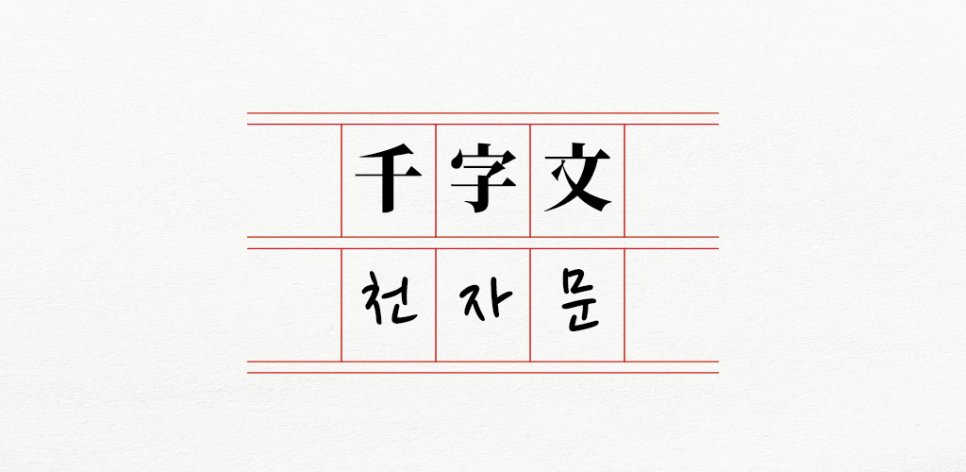
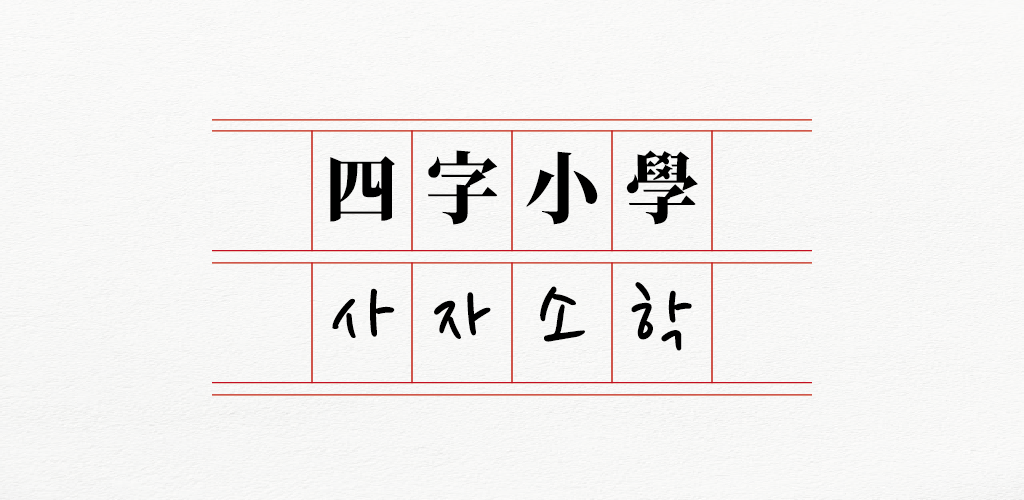
사자소학 웹사이트
전반적인 수정.

diff --git a/index.html b/index.html
@@ -3,8 +3,8 @@
 <head>
     <meta charset="UTF-8">
     <meta name="viewport" content="width=device-width, initial-scale=1.0">
-    <meta name="description" content="중국 양나라의 주흥사가 지은 책이며, 자연 현상으로부터 인류 도덕에 이르는 백반의 지식 용어를 수록했고 한문 학습의 입문서로 널리 썼음.">
-    <title>천자문 - 각 구절이 4언 절구로 이루어진 한자교재</title>
+    <meta name="description" content="유교의 기본 덕목과 생활 예절을 담은 한문 교재로, 어린아이들이 한자를 배우고 익히면서 동시에 윤리 도덕을 배우도록 구성되어 있음.">
+    <title>사자소학 - 각 구절이 4언 절구로 이루어진 한자교재</title>
     <style>
         /* 기본 스타일 */
         body, html {
@@ -119,7 +119,7 @@
 <body>
     <div class="hero-image">
         <div class="hero-text">
-            <button><a href="contents.html"><h1>천자문</h1></a></button>
+            <button><a href="outline.html"><h1>사자소학</h1></a></button>
         </div>
     </div>
 </body>

diff --git a/contents-10.html b/contents-10.html
@@ -577,7 +577,7 @@
       </div> -->
     </div>
 
-    <ins class="kakao_ad_area" style="display:none; position: fixed; bottom: 0; left:35%;"
+    <ins class="kakao_ad_area" style="display:none; position: fixed; top: 8px; left:35%;"
         data-ad-unit = "DAN-le79JyRx7EhFwXuc"
         data-ad-width = "728"
         data-ad-height = "90"

diff --git a/contents-11.html b/contents-11.html
@@ -430,7 +430,7 @@
       </div> -->
     </div>
 
-    <ins class="kakao_ad_area" style="display:none; position: fixed; bottom: 0; left:35%;"
+    <ins class="kakao_ad_area" style="display:none; position: fixed; top: 8px; left:35%;"
         data-ad-unit = "DAN-4I3U7G5tpPo9WhSn"
         data-ad-width = "728"
         data-ad-height = "90"

diff --git a/contents-3.html b/contents-3.html
@@ -577,7 +577,7 @@
       </div> -->
     </div>
 
-    <ins class="kakao_ad_area" style="display:none; position: fixed; bottom: 0; left:35%;"
+    <ins class="kakao_ad_area" style="display:none; position: fixed; top: 8px; left:35%;"
         data-ad-unit = "DAN-v3eAIAcwhRWca41N"
         data-ad-width = "728"
         data-ad-height = "90"

diff --git a/contents-4.html b/contents-4.html
@@ -580,7 +580,7 @@
       </div> -->
     </div>
 
-    <ins class="kakao_ad_area" style="display:none; position: fixed; bottom: 0; left:35%;"
+    <ins class="kakao_ad_area" style="display:none; position: fixed; top: 8px; left:35%;"
         data-ad-unit = "DAN-5ALu2GlXErKitdqo"
         data-ad-width = "728"
         data-ad-height = "90"

diff --git a/contents-5.html b/contents-5.html
@@ -577,7 +577,7 @@
       </div> -->
     </div>
 
-    <ins class="kakao_ad_area" style="display:none; position: fixed; bottom: 0; left:35%;"
+    <ins class="kakao_ad_area" style="display:none; position: fixed; top: 8px; left:35%;"
         data-ad-unit = "DAN-DbYiklfrR7hi4rQ3"
         data-ad-width = "728"
         data-ad-height = "90"

diff --git a/contents-6.html b/contents-6.html
@@ -577,7 +577,7 @@
       </div> -->
     </div>
 
-    <ins class="kakao_ad_area" style="display:none; position: fixed; bottom: 0; left:35%;"
+    <ins class="kakao_ad_area" style="display:none; position: fixed; top: 8px; left:35%;"
         data-ad-unit = "DAN-7ZxqWcrcPSIlQjOe"
         data-ad-width = "728"
         data-ad-height = "90"

diff --git a/contents-7.html b/contents-7.html
@@ -577,7 +577,7 @@
       </div> -->
     </div>
 
-    <ins class="kakao_ad_area" style="display:none; position: fixed; bottom: 0; left:35%;"
+    <ins class="kakao_ad_area" style="display:none; position: fixed; top: 8px; left:35%;"
         data-ad-unit = "DAN-qbaMDXCTIIv4ZocL"
         data-ad-width = "728"
         data-ad-height = "90"

diff --git a/contents-8.html b/contents-8.html
@@ -595,7 +595,7 @@
       </div> -->
     </div>
 
-    <ins class="kakao_ad_area" style="display:none; position: fixed; bottom: 0; left:35%;"
+    <ins class="kakao_ad_area" style="display:none; position: fixed; top: 8px; left:35%;"
         data-ad-unit = "DAN-4TSm9EGRUoEVfuvt"
         data-ad-width = "728"
         data-ad-height = "90"

diff --git a/contents-9.html b/contents-9.html
@@ -577,7 +577,7 @@
       </div> -->
     </div>
 
-    <ins class="kakao_ad_area" style="display:none; position: fixed; bottom: 0; left:35%;"
+    <ins class="kakao_ad_area" style="display:none; position: fixed; top: 8px; left:35%;"
         data-ad-unit = "DAN-YyL0UPpxX8ZgxKGR"
         data-ad-width = "728"
         data-ad-height = "90"

diff --git a/contents-1.html b/contents-1.html
@@ -577,7 +577,7 @@
       </div>  -->
     </div>
 
-    <ins class="kakao_ad_area" style="display:none; position: fixed; bottom: 0; left:35%;"
+    <ins class="kakao_ad_area" style="display:none; position: fixed; top: 8px; left:35%;"
       data-ad-unit = "DAN-xo1As8Cd9FRRG7Fl"
       data-ad-width = "728"
       data-ad-height = "90"

diff --git a/contents-2.html b/contents-2.html
@@ -577,7 +577,7 @@
     </div> -->
   </div>
 
-    <ins class="kakao_ad_area" style="display:none; position: fixed; bottom: 0; left:35%;"
+    <ins class="kakao_ad_area" style="display:none; position: fixed; top: 8px; left:35%;"
       data-ad-unit = "DAN-RobvLEpOba8VPtgQ"
       data-ad-width = "728"
       data-ad-height = "90"
